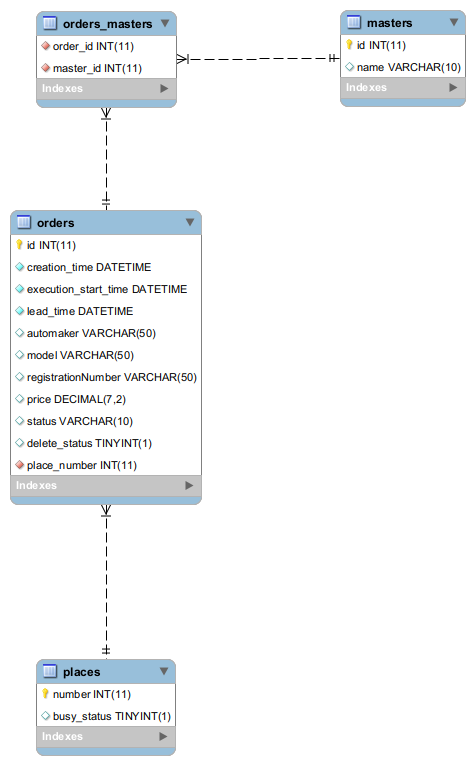
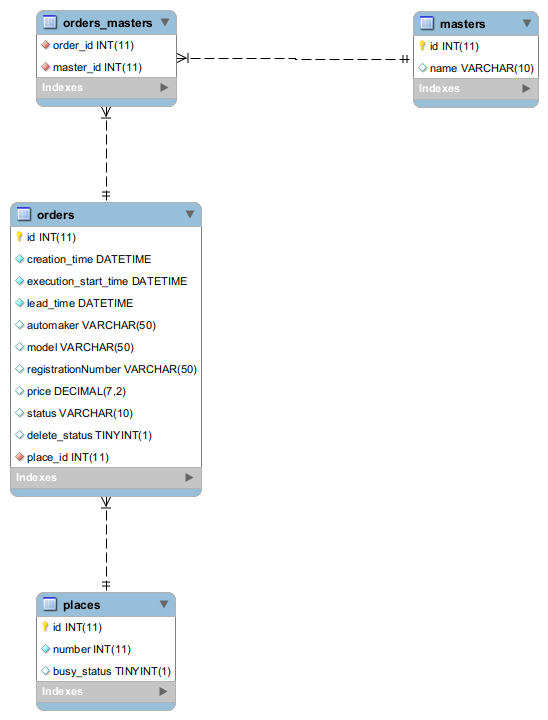
[HW11] Replace structure database

Changed region(s): [[0.0, 0.2444, 0.4421, 1.0], [0.0589, 0.0, 1.0, 0.2139]]

diff --git a/src/com/senla/carservice/dao/MasterDaoImpl.java b/src/com/senla/carservice/dao/MasterDaoImpl.java
@@ -4,6 +4,7 @@ import com.senla.carservice.container.annotation.Singleton;
 import com.senla.carservice.container.objectadjuster.propertyinjection.annotation.ConfigProperty;
 import com.senla.carservice.dao.connection.DatabaseConnection;
 import com.senla.carservice.domain.Master;
+import com.senla.carservice.domain.Order;
 import com.senla.carservice.exception.BusinessException;
 import com.senla.carservice.util.DateUtil;
 
@@ -23,6 +24,11 @@ public class MasterDaoImpl implements MasterDao {
     private static final String SQL_REQUEST_TO_UPDATE_RECORD = "UPDATE masters SET name=? WHERE id=?";
     private static final String SQL_REQUEST_TO_DELETE_RECORD = "DELETE FROM masters WHERE id=?";
     private static final String SQL_REQUEST_TO_GET_ALL_RECORDS = "SELECT * FROM masters";
+    private static final String SQL_REQUEST_TO_GET_ORDERS = "SELECT * " +
+                                                            "FROM orders " +
+                                                            "JOIN orders_masters " +
+                                                            "ON orders.id = orders_masters.order_id " +
+                                                            "WHERE orders_masters.master_id = 2";
     private static final String SQL_REQUEST_TO_GET_FREE_MASTERS = "SELECT DISTINCT masters.id, masters.name " +
                                                                   "FROM masters " +
                                                                   "INNER JOIN orders_masters " +
@@ -81,31 +87,32 @@ public class MasterDaoImpl implements MasterDao {
 
     @Override
     public List<Master> getMasters() {
-        try (Statement statement = databaseConnection.getConnection().createStatement()) {
-            List<Master> masters = new ArrayList<>();
-            ResultSet resultSet = statement.executeQuery(SQL_REQUEST_TO_GET_ALL_RECORDS);
-            while (resultSet.next()) {
-                Master master = new Master();
-                master.setId(resultSet.getLong("id"));
-                master.setName(resultSet.getString("name"));
-                masters.add(master);
-            }
-            return masters;
-
-        } catch (SQLException ex) {
-            throw new BusinessException("Error request get record masters");
-        }
+        return getMastersFromDatabase(SQL_REQUEST_TO_GET_ALL_RECORDS);
     }
 
     @Override
     public List<Master> getFreeMasters(Date date) {
+        return getMastersFromDatabase(SQL_REQUEST_TO_GET_FREE_MASTERS + DateUtil.getStringFromDate(date, true));
+    }
+
+    private List<Master> getMastersFromDatabase(String sqlRequest){
         try (Statement statement = databaseConnection.getConnection().createStatement()) {
             List<Master> masters = new ArrayList<>();
-            ResultSet resultSet = statement.executeQuery(SQL_REQUEST_TO_GET_FREE_MASTERS + DateUtil.getStringFromDate(date, true));
+            ResultSet resultSet = statement.executeQuery(sqlRequest);
             while (resultSet.next()) {
+                ResultSet resultSetOrders = statement.executeQuery(SQL_REQUEST_TO_GET_ORDERS);
                 Master master = new Master();
                 master.setId(resultSet.getLong("id"));
                 master.setName(resultSet.getString("name"));
+                List<Order> orders = new ArrayList<>();
+                while (resultSetOrders.next()) {
+                    Order order = new Order(resultSetOrders.getLong("id"),
+                                            resultSetOrders.getString("automaker"),
+                                            resultSetOrders.getString("model"),
+                                            resultSetOrders.getString("registrationNumber"));
+                    orders.add(order);
+                }
+                master.setOrders(orders);
                 masters.add(master);
             }
             return masters;

diff --git a/src/com/senla/carservice/dao/PlaceDaoImpl.java b/src/com/senla/carservice/dao/PlaceDaoImpl.java
@@ -1,35 +1,68 @@
 package com.senla.carservice.dao;
 
+import com.senla.carservice.container.objectadjuster.propertyinjection.annotation.ConfigProperty;
+import com.senla.carservice.dao.connection.DatabaseConnection;
+import com.senla.carservice.domain.Master;
 import com.senla.carservice.domain.Place;
+import com.senla.carservice.exception.BusinessException;
 
+import java.sql.ResultSet;
+import java.sql.SQLException;
+import java.sql.Statement;
+import java.util.ArrayList;
 import java.util.Date;
 import java.util.List;
 
 public class PlaceDaoImpl implements PlaceDao {
+    @ConfigProperty
+    private DatabaseConnection databaseConnection;
+    private static final String SQL_REQUEST_TO_ADD_RECORD = "INSERT INTO masters VALUES (NULL, ?)";
+    private static final String SQL_REQUEST_TO_UPDATE_RECORD = "UPDATE masters SET name=? WHERE id=?";
+    private static final String SQL_REQUEST_TO_DELETE_RECORD = "DELETE FROM masters WHERE id=?";
+    private static final String SQL_REQUEST_TO_GET_ALL_RECORDS = "SELECT * FROM masters";
+    private static final String SQL_REQUEST_TO_GET_FREE_PLACES = "SELECT DISTINCT masters.id, masters.name " +
+                                                                  "FROM masters " +
+                                                                  "INNER JOIN orders_masters " +
+                                                                  "ON masters.id = orders_masters.master_id " +
+                                                                  "LEFT JOIN orders " +
+                                                                  "ON orders_masters.order_id = orders.id " +
+                                                                  "WHERE orders.lead_time > ";
     @Override
-    public List<Place> getFreePlaces(Date startDayDate) {
+    public List<Place> getPlaces() {
+        try (Statement statement = databaseConnection.getConnection().createStatement()) {
+            List<Place> places = new ArrayList<>();
+            ResultSet resultSet = statement.executeQuery(SQL_REQUEST_TO_GET_ALL_RECORDS);
+            while (resultSet.next()) {
+                Place place = new Place();
+                place.setId(resultSet.getLong("id"));
+                place.setNumber(resultSet.getInt("number"));
+                places.add(place);
+            }
+            return places;
+
+        } catch (SQLException ex) {
+            throw new BusinessException("Error request get record masters");
+        }
+    }
+
+    @Override
+    public List<Place> getFreePlaces(final Date startDayDate) {
         return null;
     }
 
     @Override
-    public void createRecord(Object object) {
-
+    public void addPlace(final Place place) {
     }
 
     @Override
-    public List<Object> getAllRecords() {
-        return null;
+    public void updatePlace(final Place place) {
     }
 
     @Override
-    public void updateRecord(Object object) {
+    public void deletePlace(final Place place) {
     }
 
     @Override
-    public void updateAllRecords(Object object) {
-    }
-
-    @Override
-    public void deleteRecord(Object object) {
+    public void updateListPlace(final List<Place> places) {
     }
 }

diff --git a/src/com/senla/carservice/dao/PlaceDao.java b/src/com/senla/carservice/dao/PlaceDao.java
@@ -1,10 +1,22 @@
 package com.senla.carservice.dao;
 
 import com.senla.carservice.domain.Place;
+import com.senla.carservice.repository.IdGenerator;
 
 import java.util.Date;
 import java.util.List;
 
-public interface PlaceDao extends Dao {
+public interface PlaceDao {
+
+    List<Place> getPlaces();
+
     List<Place> getFreePlaces(Date startDayDate);
+
+    void addPlace(Place place);
+
+    void updatePlace(Place place);
+
+    void deletePlace(Place place);
+
+    void updateListPlace(List<Place> places);
 }

diff --git a/src/com/senla/carservice/domain/Master.java b/src/com/senla/carservice/domain/Master.java
@@ -22,11 +22,11 @@ public class Master extends AEntity {
         return orders;
     }
 
-    public void setName(final String name) {
+    public void setName(String name) {
         this.name = name;
     }
 
-    public void setOrders(final List<Order> orders) {
+    public void setOrders(List<Order> orders) {
         this.orders = orders;
     }
 
